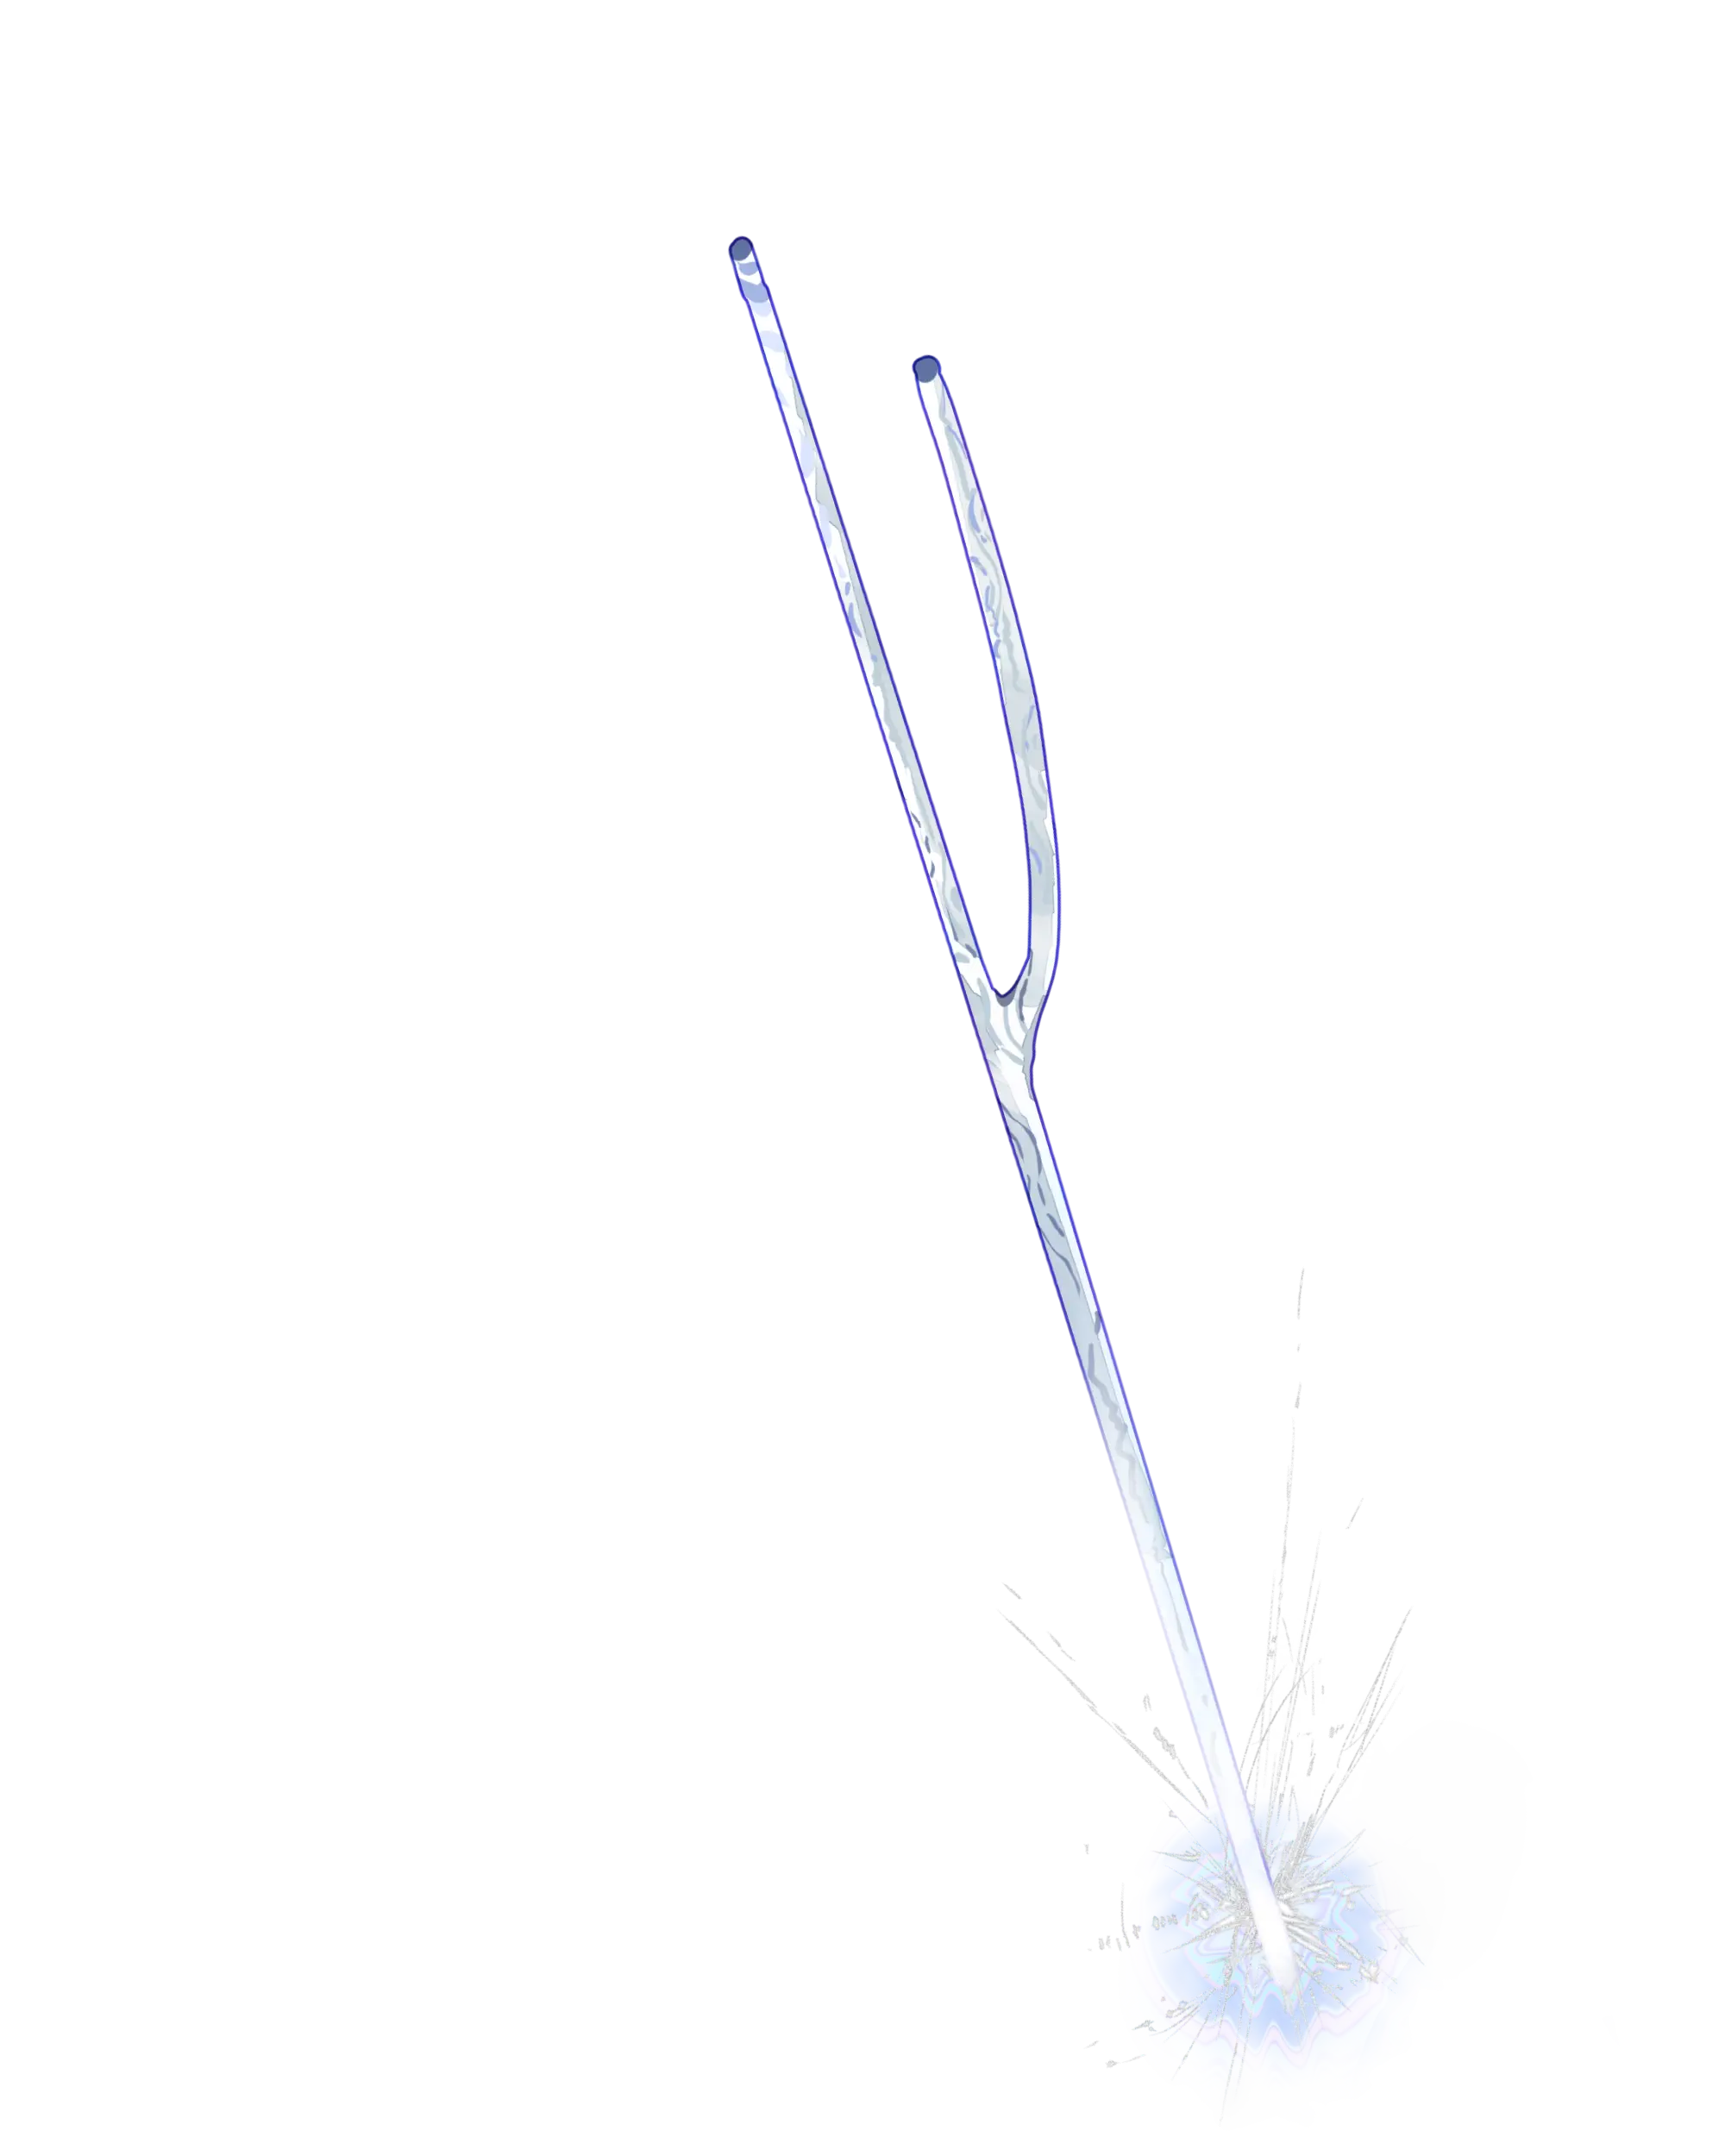
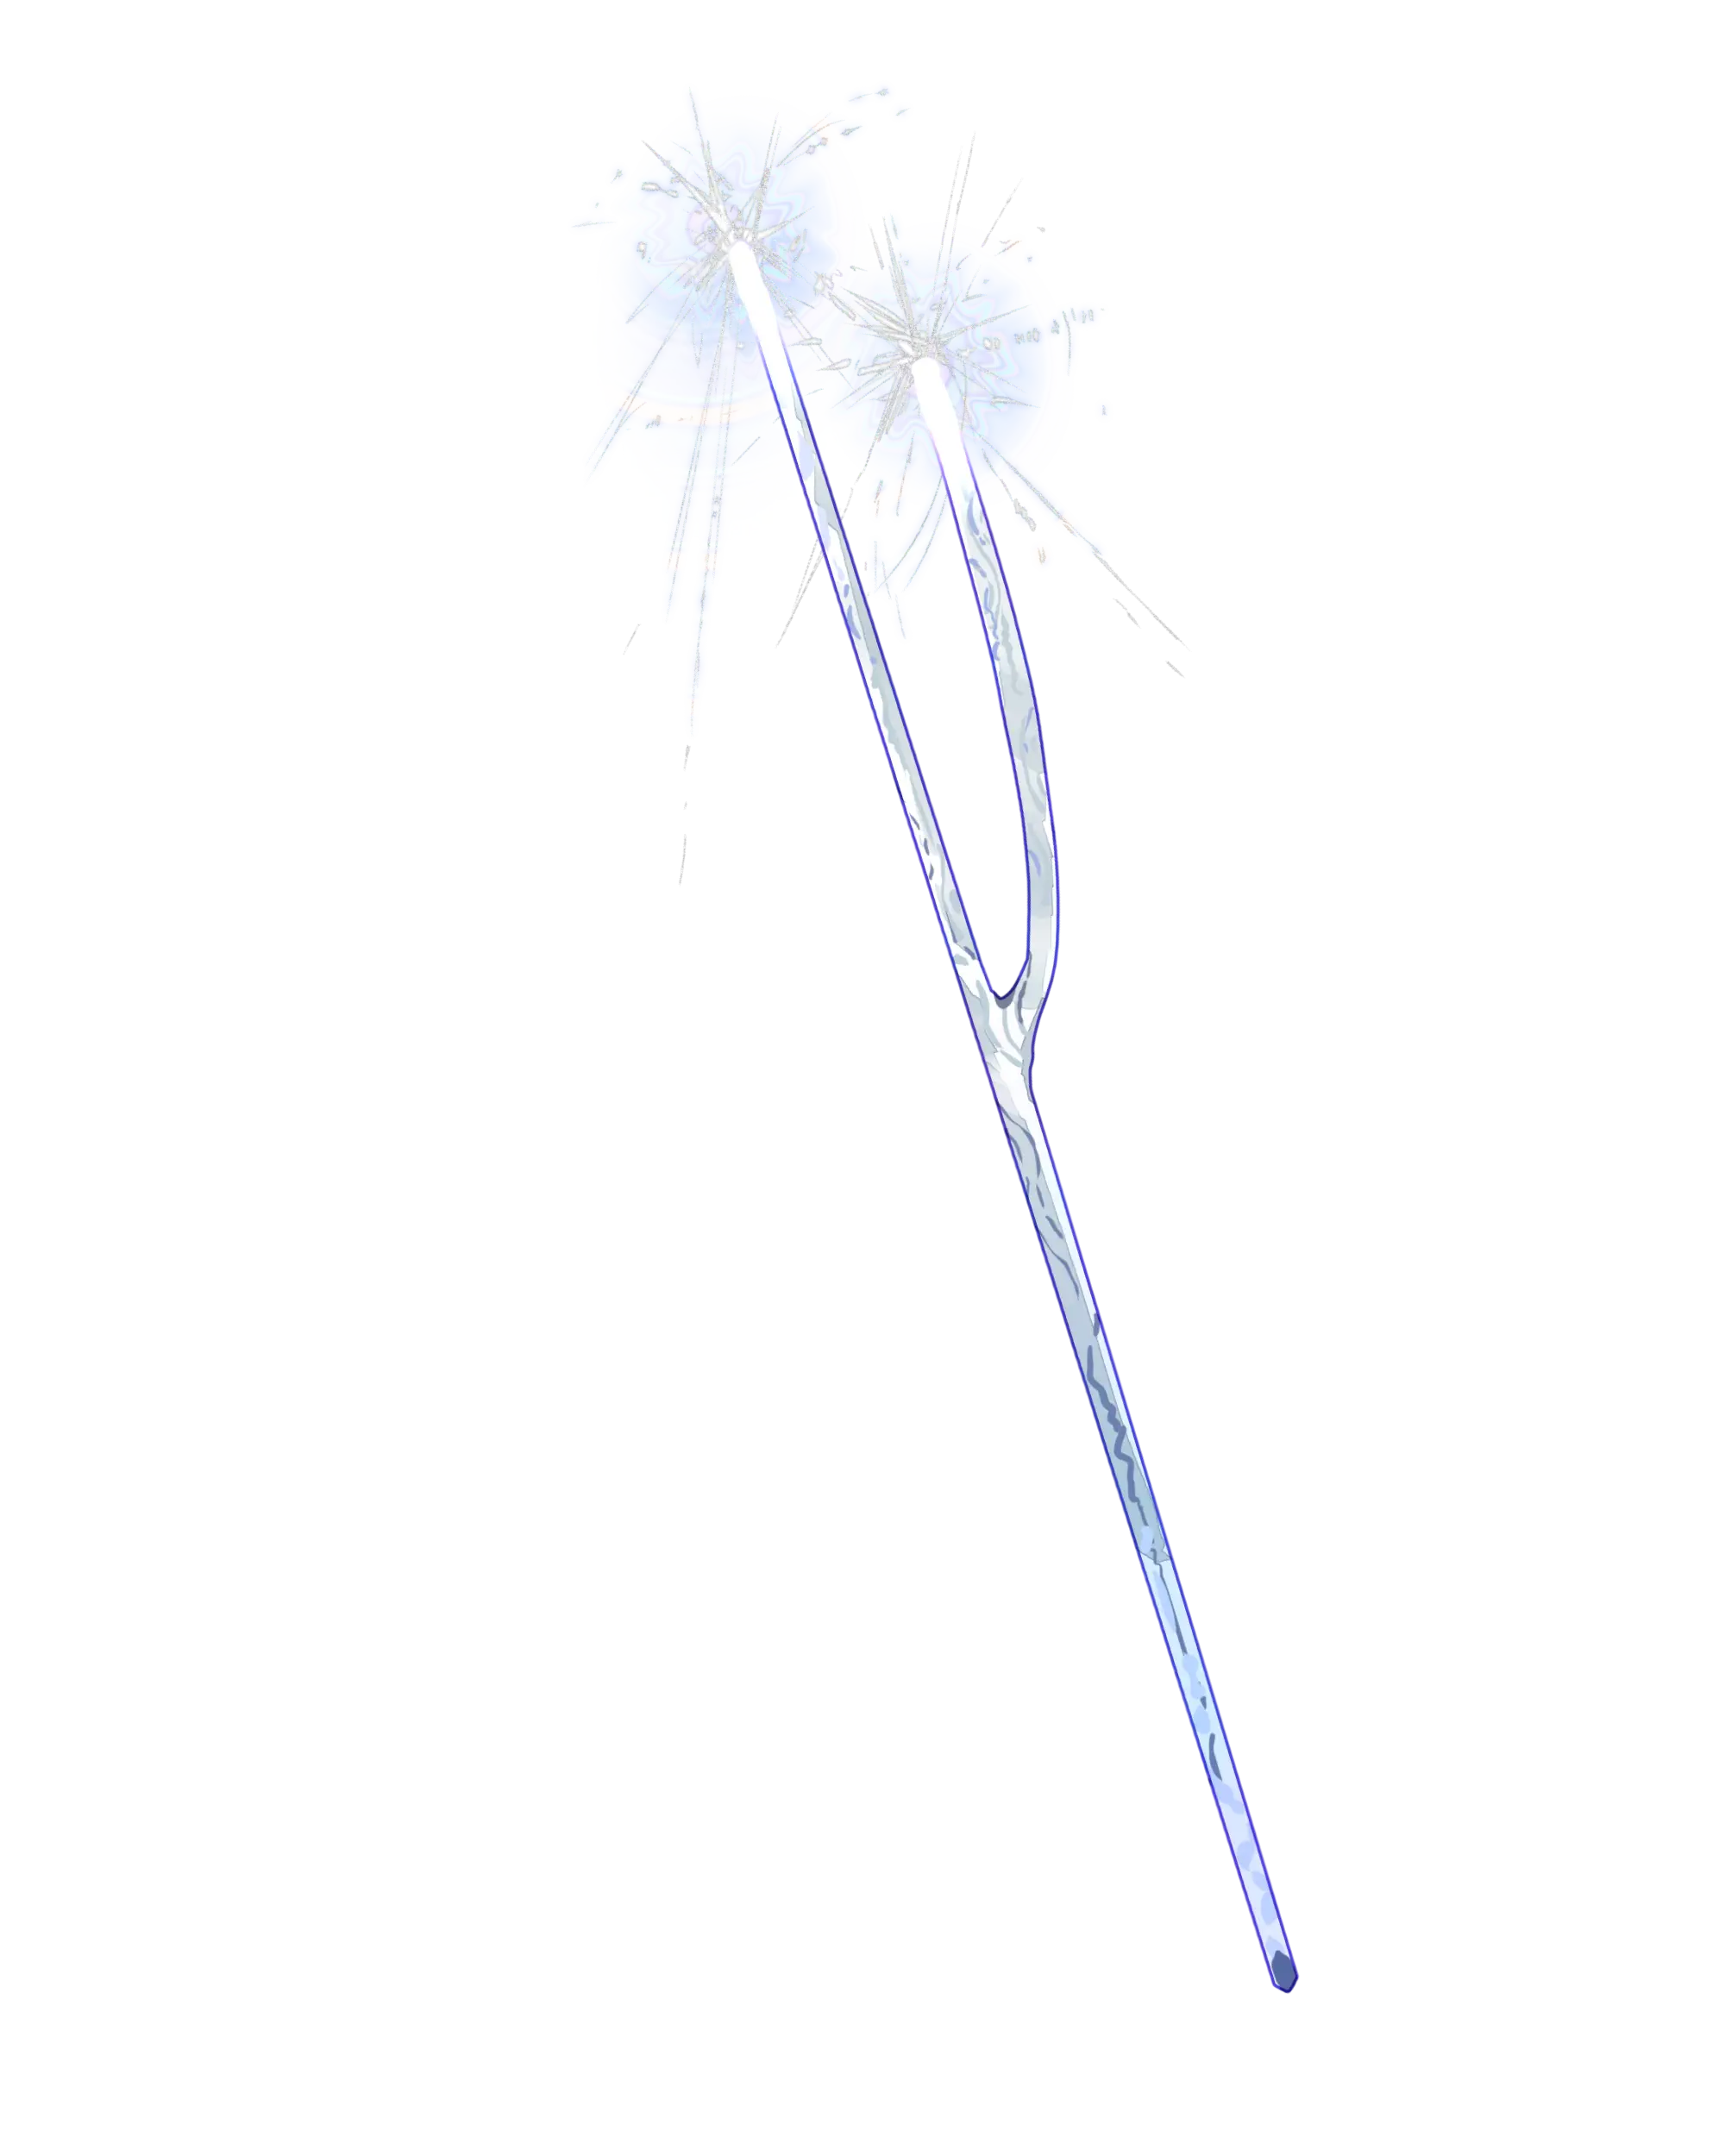
ปรับภาพไฟเย็น

Changed region(s): [[0.372, 0.0624, 0.806, 0.9672]]

diff --git a/src/App.jsx b/src/App.jsx
@@ -358,13 +358,13 @@ const sparklerList = [
   {
     id: 7,
     name: "ปะการังแสง",
-    imageNo: `${baseUrl}images/OFF/Madoka.webp`,
+    imageNo: `${baseUrl}images/OFF/Madoka1.webp`,
     image: `${baseUrl}images/ON/Madoka1.webp`,
   },
   {
     id: 8,
     name: "ปะการังแสง",
-    imageNo: `${baseUrl}images/OFF/Madoka.webp`,
+    imageNo: `${baseUrl}images/OFF/Madoka2.webp`,
     image: `${baseUrl}images/ON/Madoka2.webp`,
   },
   {